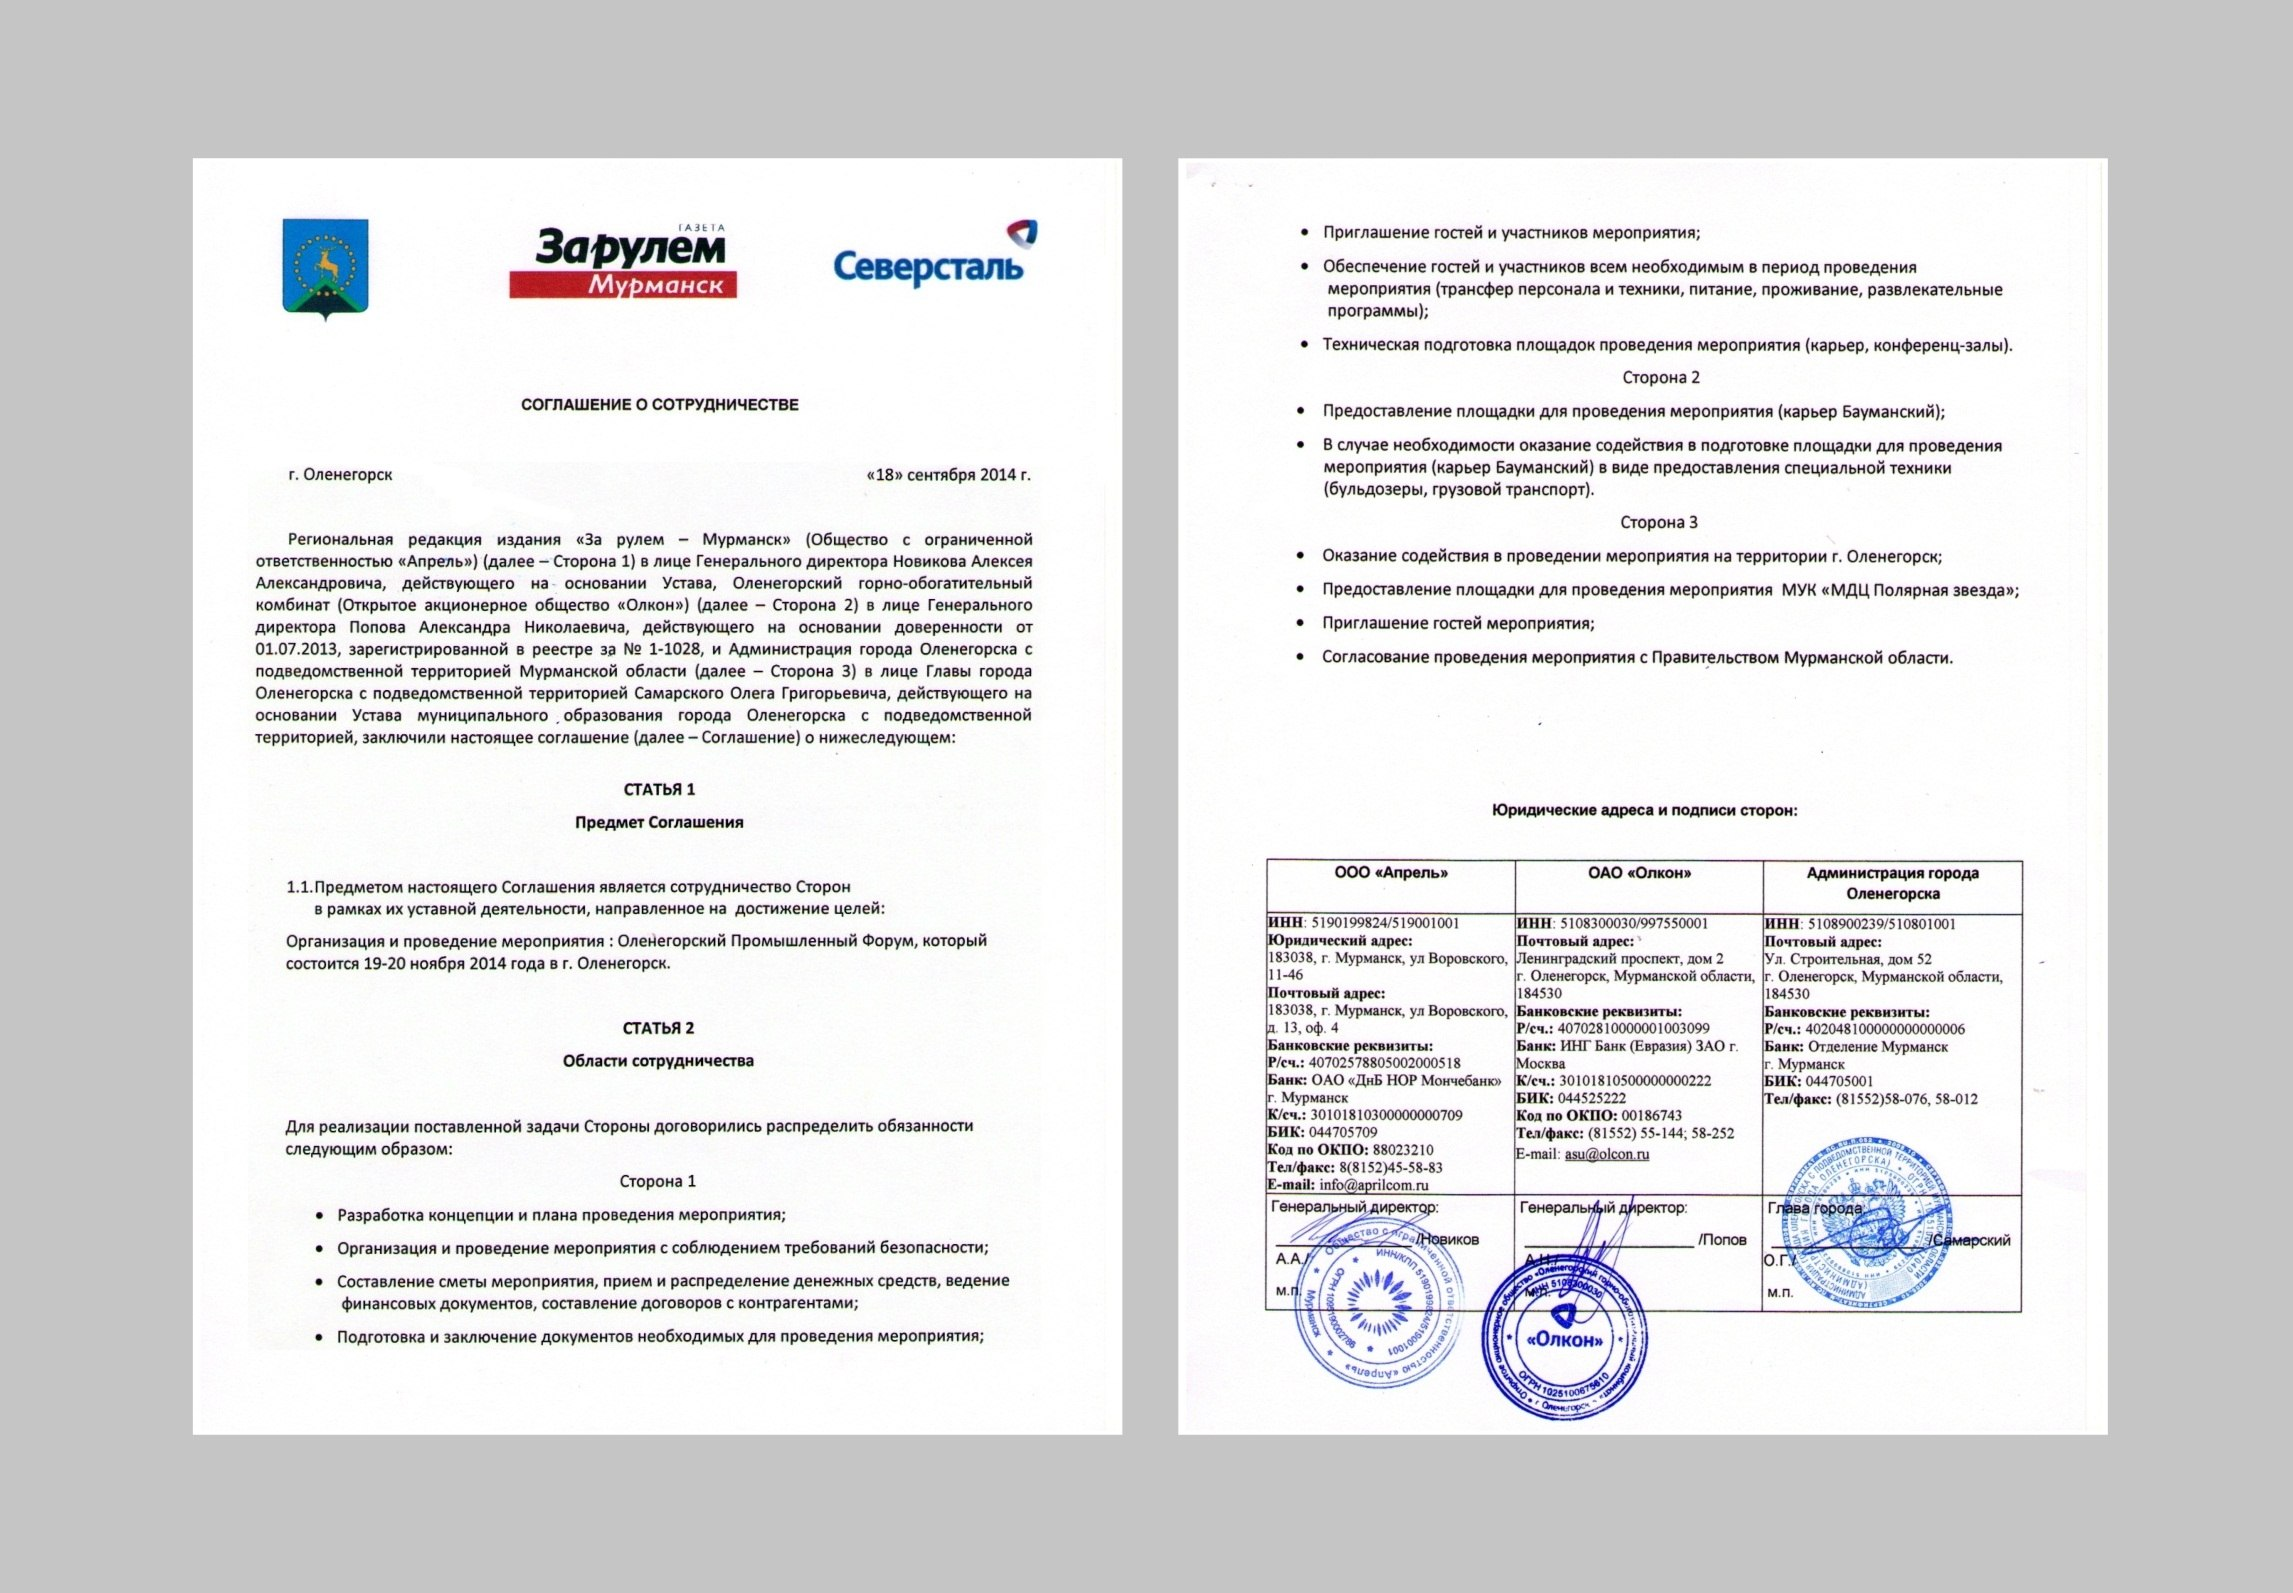
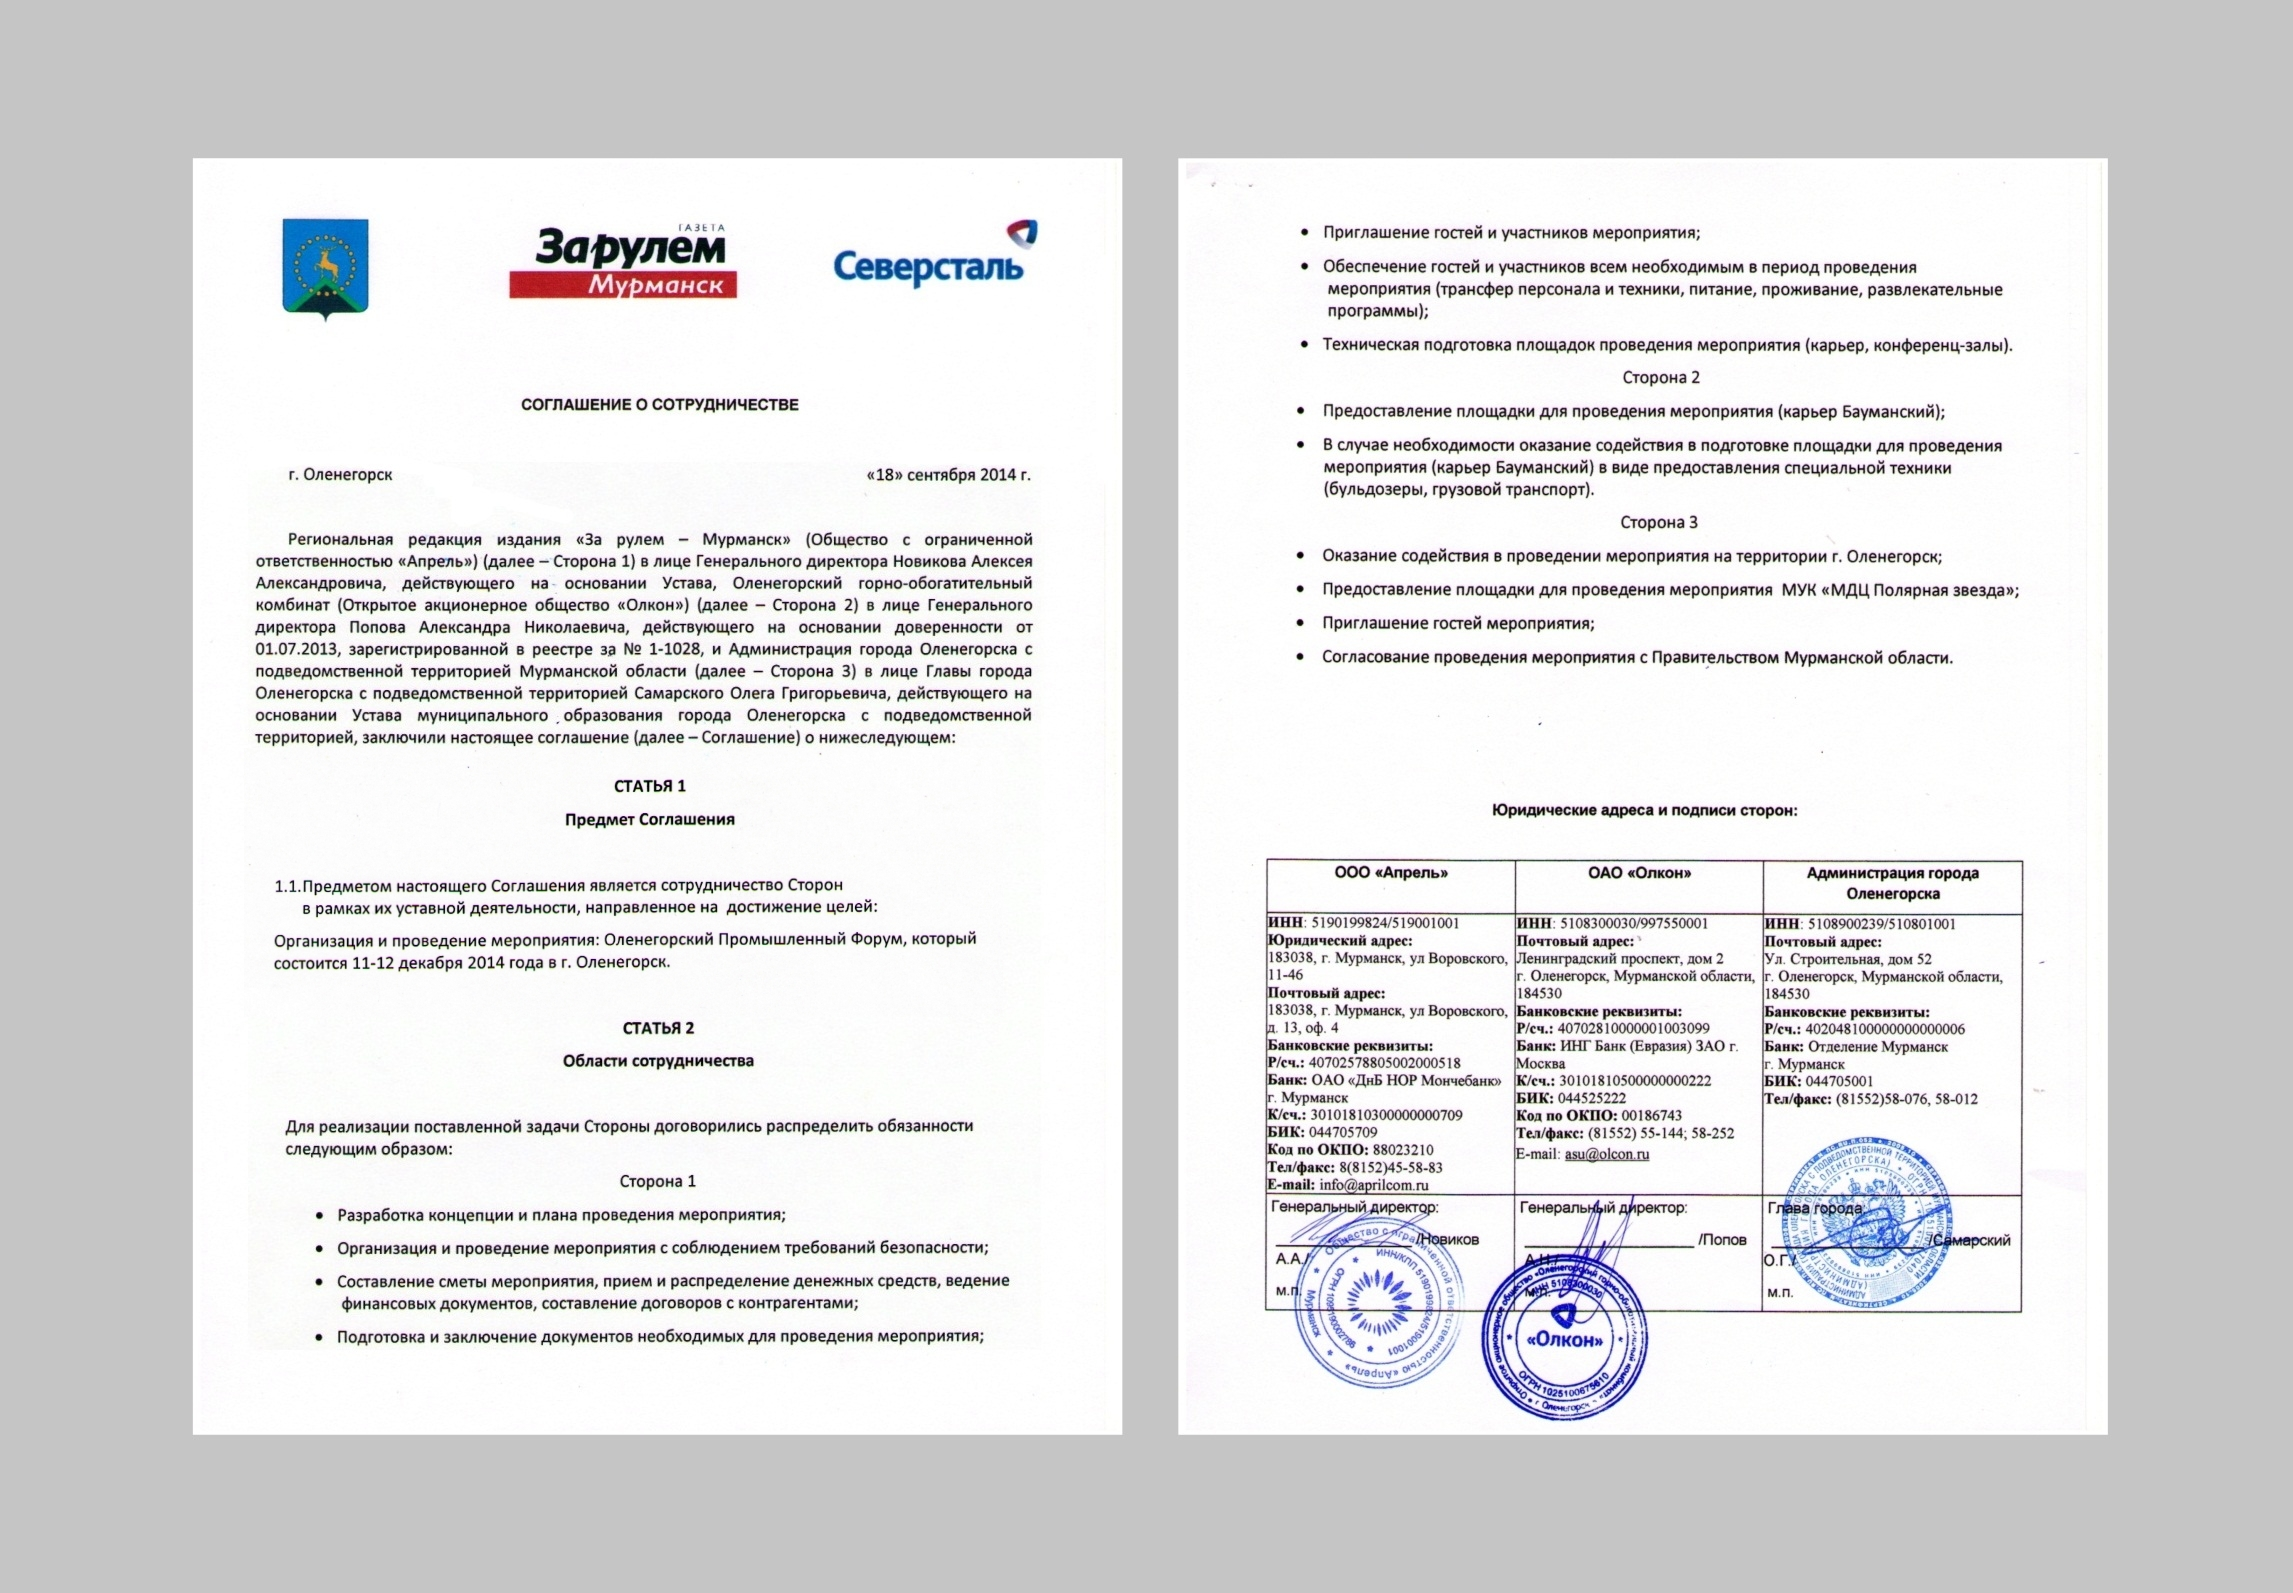
* update - removed business   week

Changed region(s): [[0.1239, 0.5537, 0.4335, 0.6152], [0.2477, 0.4922, 0.3406, 0.5229]]

diff --git a/index.html b/index.html
@@ -70,31 +70,25 @@
         <div class="container">
 
             <div class="row">
-                <div class="col-md-1 col-xs-6 col-sm-1 col-sm-1">
+                <div class="col-lg-1 col-md-1 col-xs-6 col-sm-1 col-sm-1">
                     <img class="logo" src="/logo/murmanskaya_oblast.png" />
                 </div>
-                <div class="col-md-1 col-xs-6 col-sm-1">
+                <div class="col-lg-1 col-md-1 col-xs-6 col-sm-1">
                     <img class="logo" src="/logo/olenegorsk.png" />
                 </div>
-                <div class="col-md-2 col-xs-12 col-sm-2">
+                <div class="col-lg-2 col-md-2 col-xs-12 col-sm-2">
                     <img class="logo" src="/logo/za_rulem.jpg" />
                 </div>
-                <div class="col-md-2 col-xs-12 col-sm-2">
+                <div class="col-lg-2 col-md-2 col-xs-12 col-sm-2">
                     <img class="logo" src="/logo/severstal.png" />
                 </div>
-                <div class="col-md-3 col-xs-12 col-md-offset-3 col-sm-3 col-sm-offset-3">
-                    <img class="img-responsive" src="/logo/logo_nedeli.png" />
+                <div class="col-lg-6">
+                    <p style="margin-top: 8px">Форум проходит  при поддержке Администрации г. Оленегорска, Правительства Мурманской области и ОАО "Олкон" (Оленегорский ГОК). </p>
                 </div>
             </div>
             <div class="intro-text row">
-                <div class="col-xs-12 col-sm-6 col-md-6 col-lg-6 ">
-                    <h1 style="margin-top: 0">Оленегорский промышленный форум 2014</h1>
-                </div>
-                <div class="col-xs-12 col-sm-6 col-md-6 col-lg-6 ">
-                    <p style="margin-top: 8px">
-                        Форум проходит в дни  III Мурманской международной деловой недели, при поддержке Администрации г. Оленегорска,
-                        Правительства Мурманской области и ОАО "Олкон" (Оленегорский ГОК).
-                    </p>
+                <div class="col-lg-12 ">
+                    <h1 style="margin-top: 20px">Оленегорский промышленный форум 2014</h1>
                 </div>
             </div>
 
@@ -169,8 +163,7 @@
 
                     <div class="lead">
                         <a class="prevyu" href="/img/soglashenie.jpg"><img class="img-responsive" src="/img/prevyu.png" /></a>
-                        <p>19-20 ноября 2014 года в городе Оленегорске в дни III Мурманской международной деловой недели
-                            пройдет Оленегорский промышленный Форум.</p>
+                        <p>11-12 декабря 2014 года в городе пройдет Оленегорский промышленный Форум.</p>
 
                         <p> Организаторами Форума выступили Администрация города Оленегорска с подведомственной
                             территорией Мурманской области в лице Главы администрации Самарского Олега Григорьевича, ОАО
